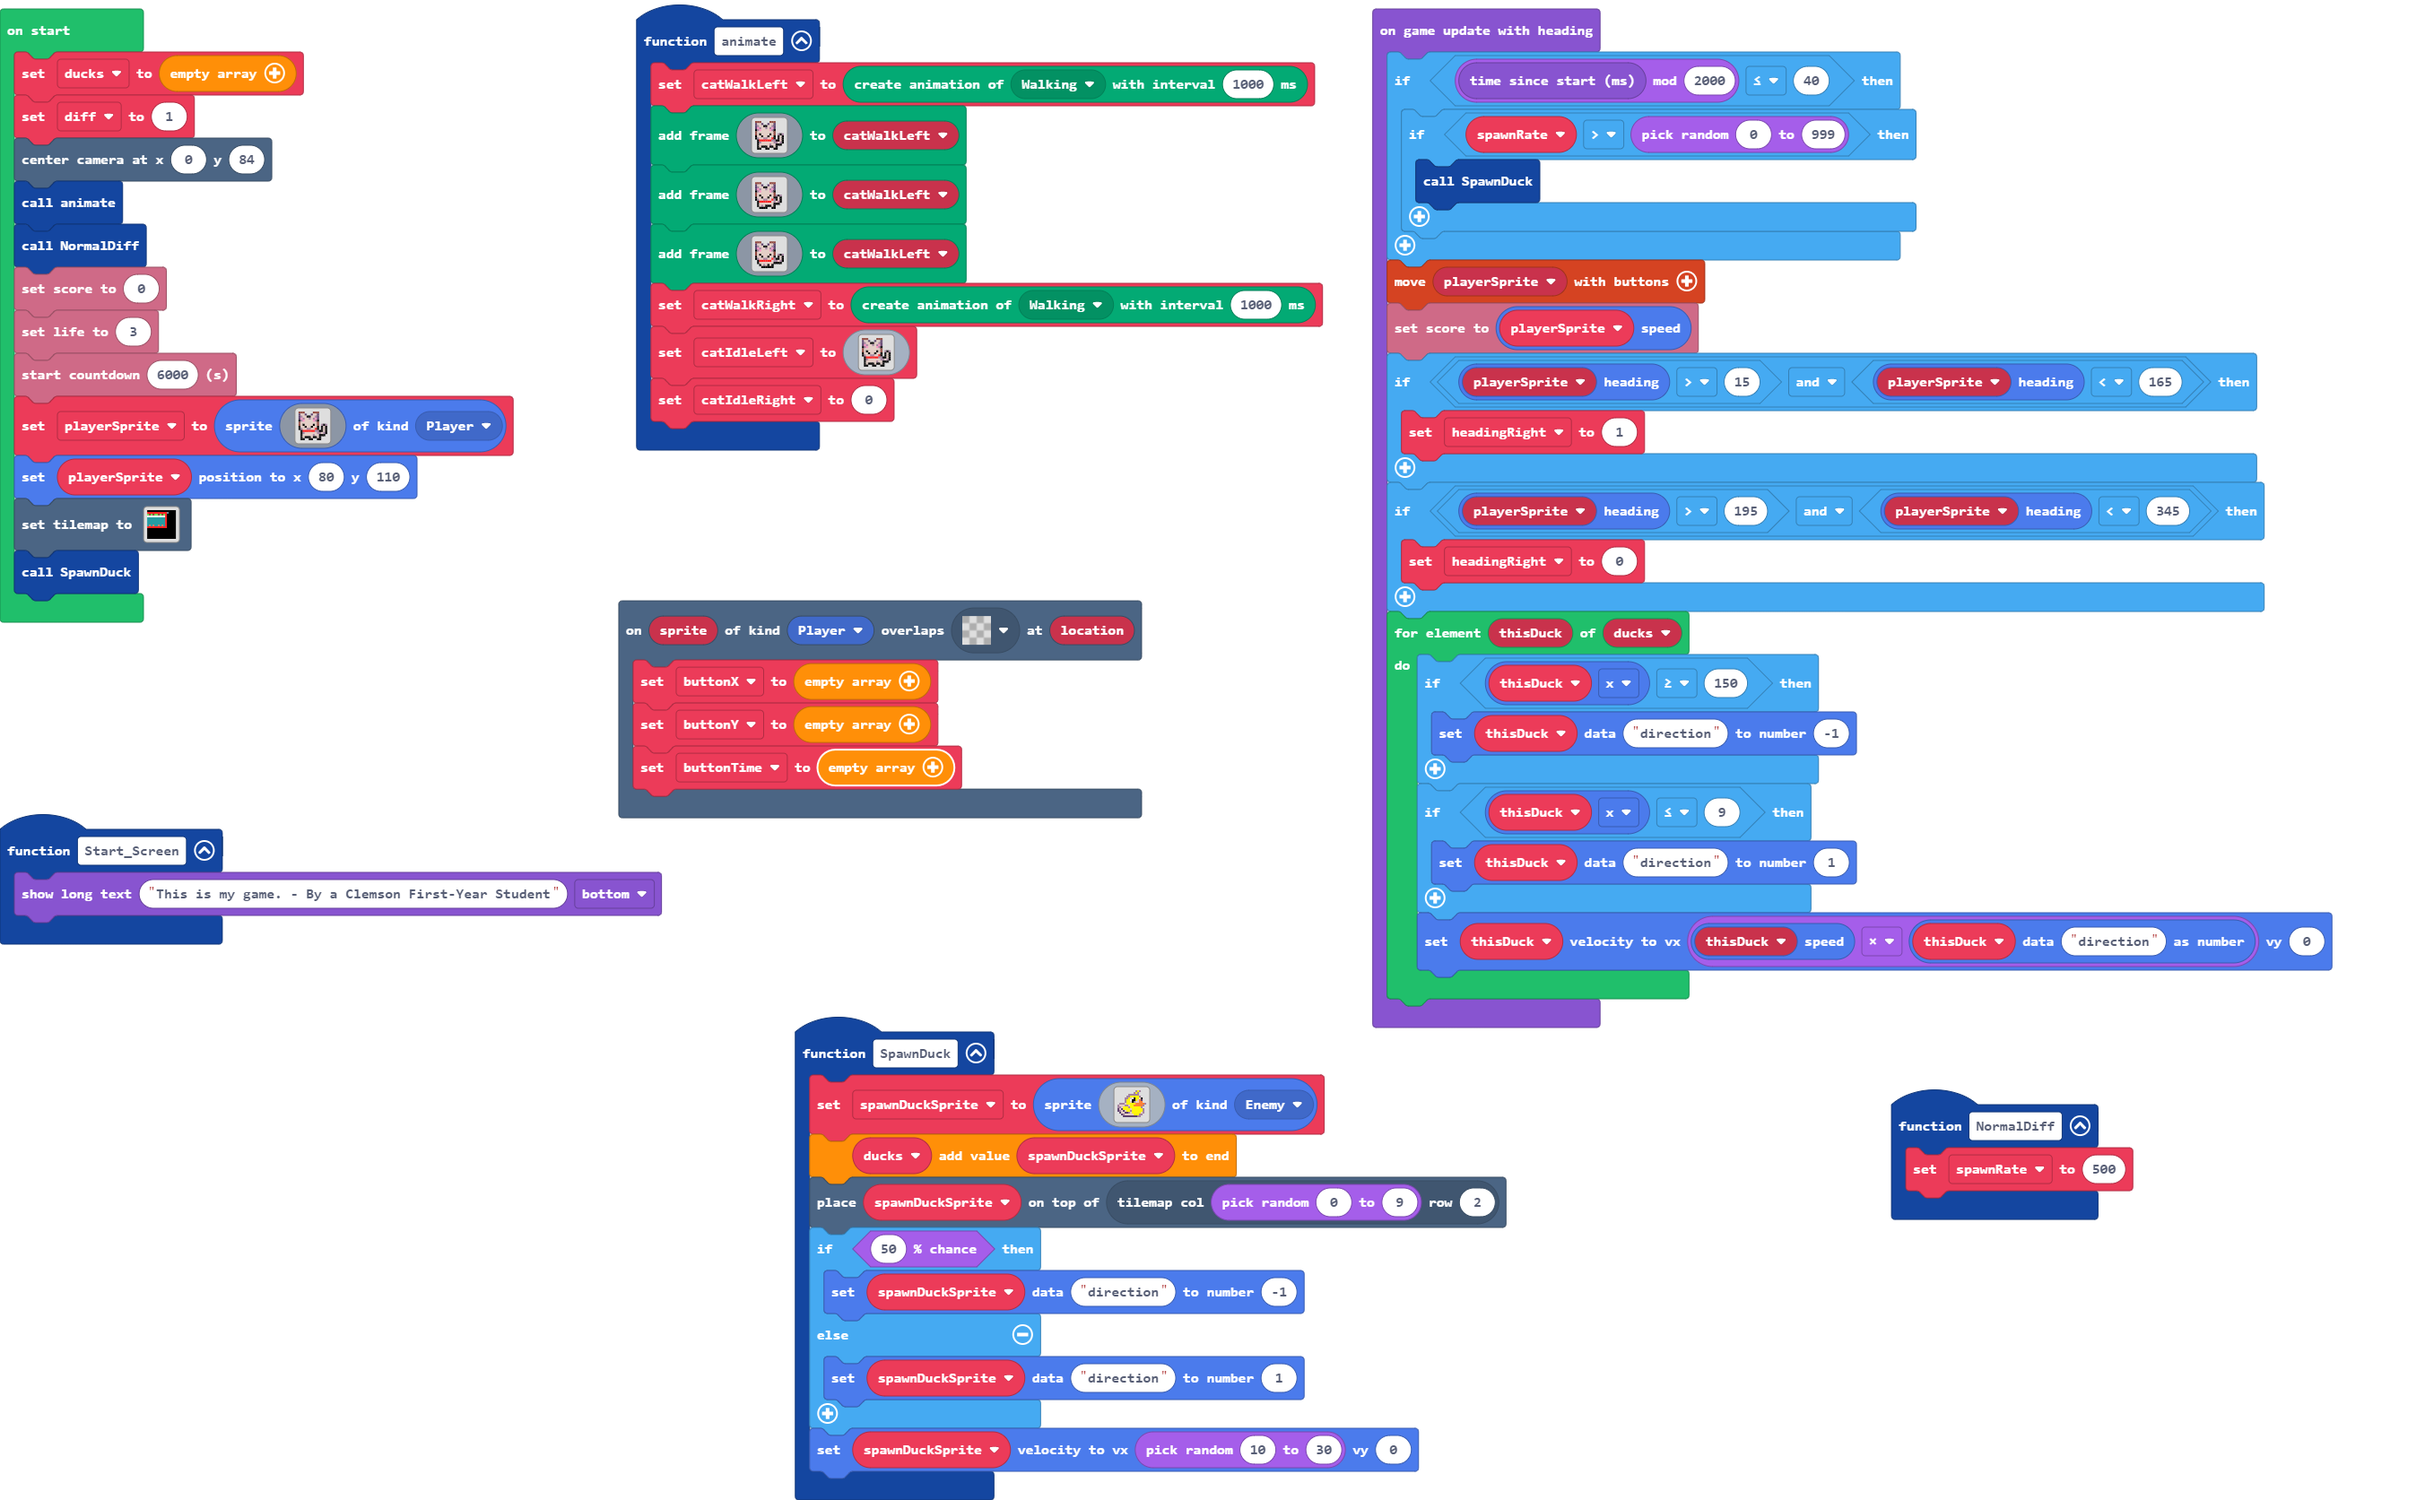
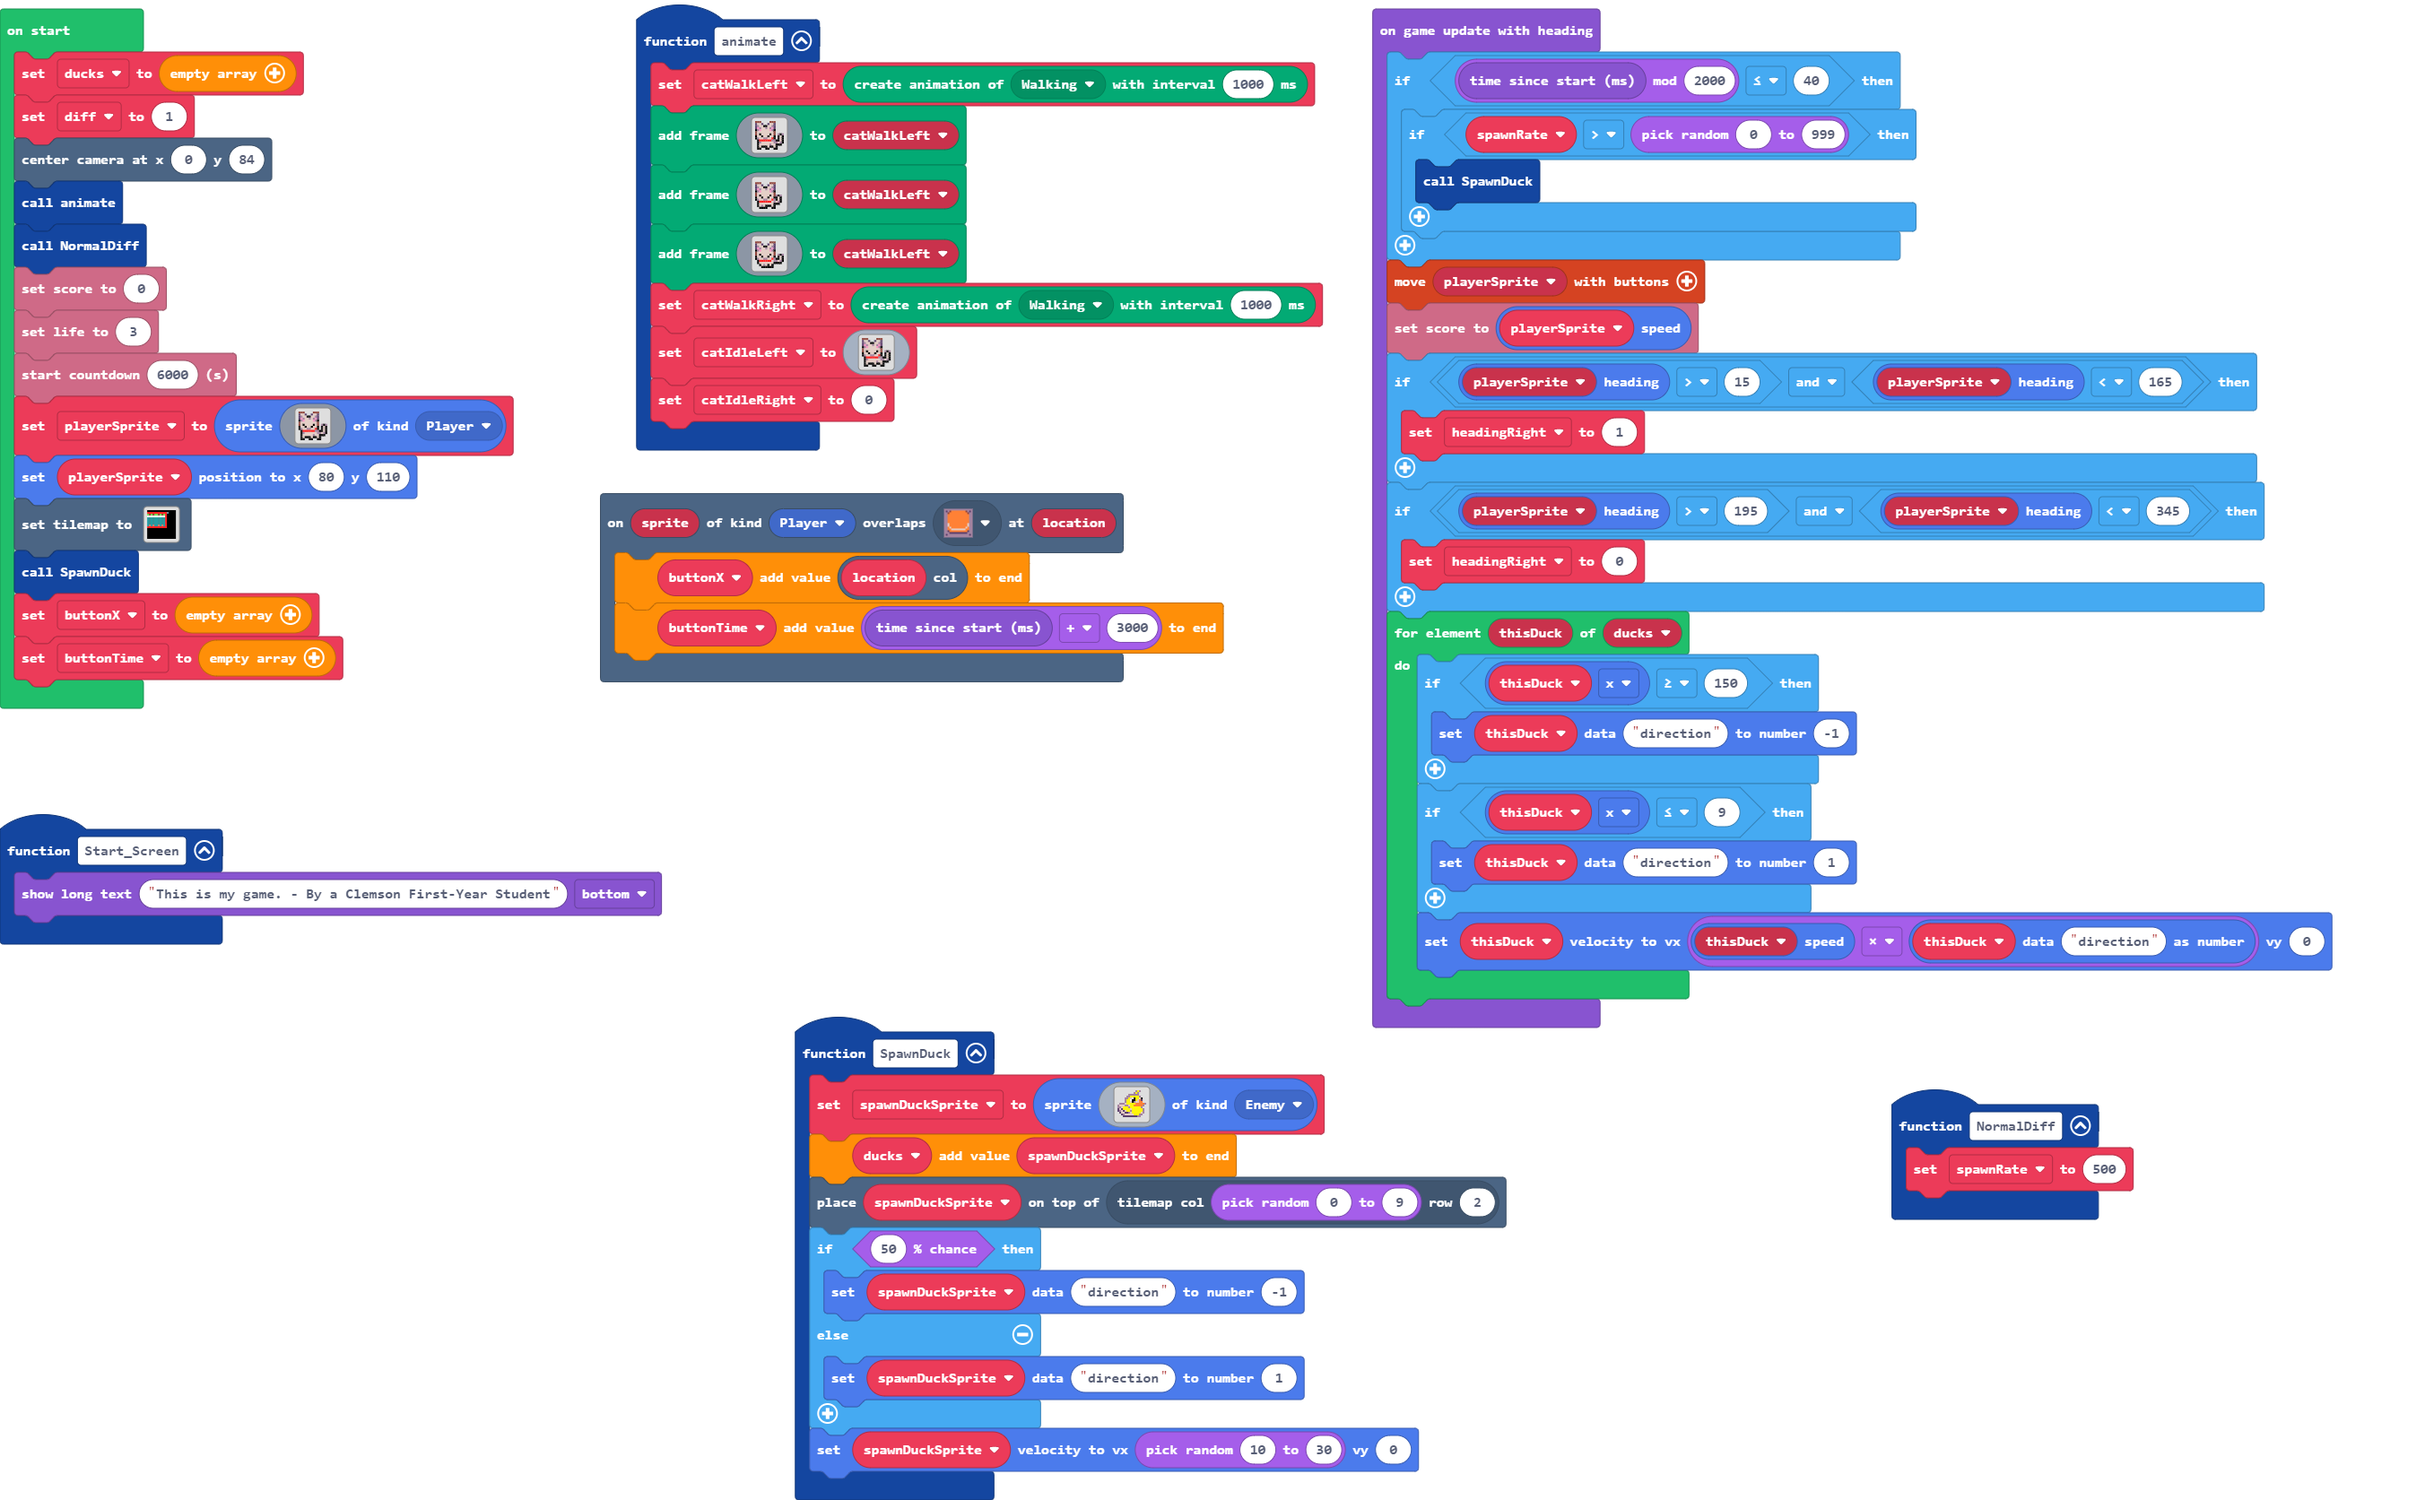
Line on tilemap

Changed region(s): [[0.2485, 0.3108, 0.5281, 0.5595], [0.0, 0.373, 0.1553, 0.4973]]

diff --git a/main.ts b/main.ts
@@ -96,11 +96,6 @@ game.onGameUpdateWithHeading(function () {
         thisDuck.setVelocity(sprites.speed(thisDuck) * sprites.readDataNumber(thisDuck, "direction"), 0)
     }
 })
-scene.onOverlapTile(SpriteKind.Player, myTiles.transparency16, function (sprite, location) {
-    buttonX = []
-    buttonY = []
-    buttonTime = []
-})
 function SpawnDuck () {
     spawnDuckSprite = sprites.create(img`
         . . . . . . . . . . b 5 b . . . 
@@ -132,19 +127,22 @@ function SpawnDuck () {
 function Start_Screen () {
     game.showLongText("This is my game. - By a Clemson First-Year Student", DialogLayout.Bottom)
 }
+scene.onOverlapTile(SpriteKind.Player, sprites.dungeon.buttonOrange, function (sprite, location) {
+    buttonX.push(scene.getTileColCoordinate(location))
+    buttonTime.push(game.runtime() + 3000)
+})
 function NormalDiff () {
     spawnRate = 500
 }
 let spawnDuckSprite: Sprite = null
-let buttonTime: number[] = []
-let buttonY: number[] = []
-let buttonX: number[] = []
 let headingRight = 0
 let spawnRate = 0
 let catIdleRight = 0
 let catIdleLeft: Image = null
 let catWalkRight: animation.Animation = null
 let catWalkLeft: animation.Animation = null
+let buttonTime: number[] = []
+let buttonX: number[] = []
 let playerSprite: Sprite = null
 let ducks: Sprite[] = []
 ducks = []
@@ -172,7 +170,7 @@ playerSprite = sprites.create(img`
     . f f . . f f . . f f . . . 
     `, SpriteKind.Player)
 playerSprite.setPosition(80, 110)
-tiles.setTilemap(tiles.createTilemap(hex`1000100003030303030303030303030303030303050505050505050505050508030303030204020402020402040205030303030306060606060606060606050303030303010101010101010101010503030303030101010101010101010105030303030301010101010101010101050303030303010101010101010101010503030303030107010701010701070105030303030305050505050505050505050303030303030303030303030303030303030303030303030303030303030303030303030303030303030303030303030303030303030303030303030303030303030303030303030303030303030303030303030303030303030303030303030303030303`, img`
+tiles.setTilemap(tiles.createTilemap(hex`1000100003030303030303030303030303030303050505050505050505050508030303030204020402020402040205030303030306060606060606060606050303030303010901090101090109010503030303030109010901010901090105030303030301090109010109010901050303030303010901090101090109010503030303030107010701010701070105030303030305050505050505050505050303030303030303030303030303030303030303030303030303030303030303030303030303030303030303030303030303030303030303030303030303030303030303030303030303030303030303030303030303030303030303030303030303030303`, img`
     . . . . . . . . . . . . . . . . 
     2 2 2 2 2 2 2 2 2 2 2 . . . . . 
     . . . . . . . . . . 2 . . . . . 
@@ -189,5 +187,7 @@ tiles.setTilemap(tiles.createTilemap(hex`100010000303030303030303030303030303030
     . . . . . . . . . . . . . . . . 
     . . . . . . . . . . . . . . . . 
     . . . . . . . . . . . . . . . . 
-    `, [myTiles.transparency16,myTiles.tile1,myTiles.tile2,myTiles.tile4,myTiles.tile3,myTiles.tile5,myTiles.tile8,sprites.dungeon.buttonOrange,sprites.dungeon.buttonTealDepressed], TileScale.Sixteen))
+    `, [myTiles.transparency16,myTiles.tile1,myTiles.tile2,myTiles.tile4,myTiles.tile3,myTiles.tile5,myTiles.tile8,sprites.dungeon.buttonOrange,sprites.dungeon.buttonTealDepressed,myTiles.tile9], TileScale.Sixteen))
 SpawnDuck()
+buttonX = []
+buttonTime = []

diff --git a/tilemap.g.ts b/tilemap.g.ts
@@ -18,6 +18,8 @@ namespace myTiles {
     export const tile7 = image.ofBuffer(hex``);
     //% fixedInstance jres blockIdentity=images._tile
     export const tile8 = image.ofBuffer(hex``);
+    //% fixedInstance jres blockIdentity=images._tile
+    export const tile9 = image.ofBuffer(hex``);
 
 }
 // Auto-generated code. Do not edit.
